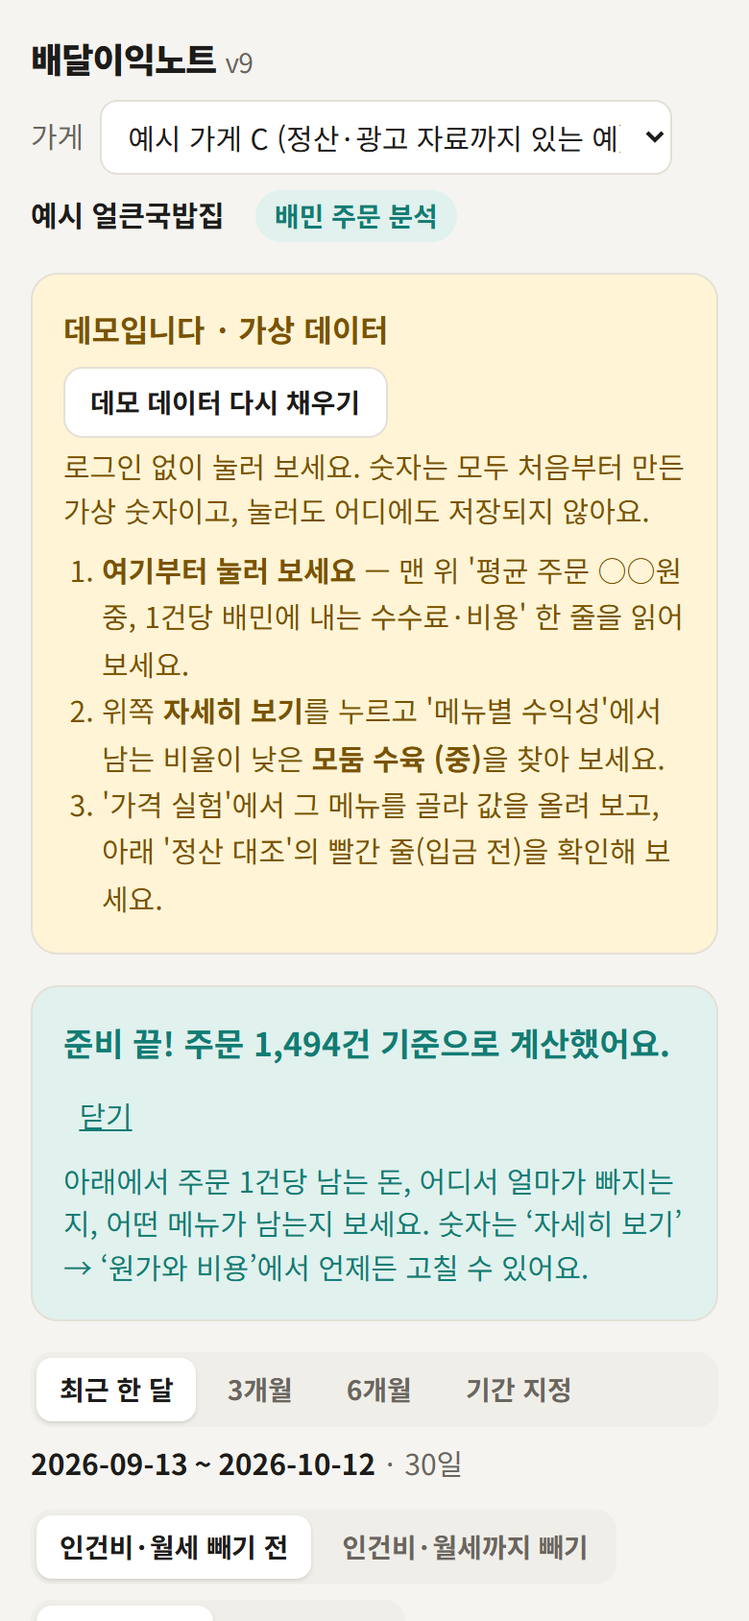
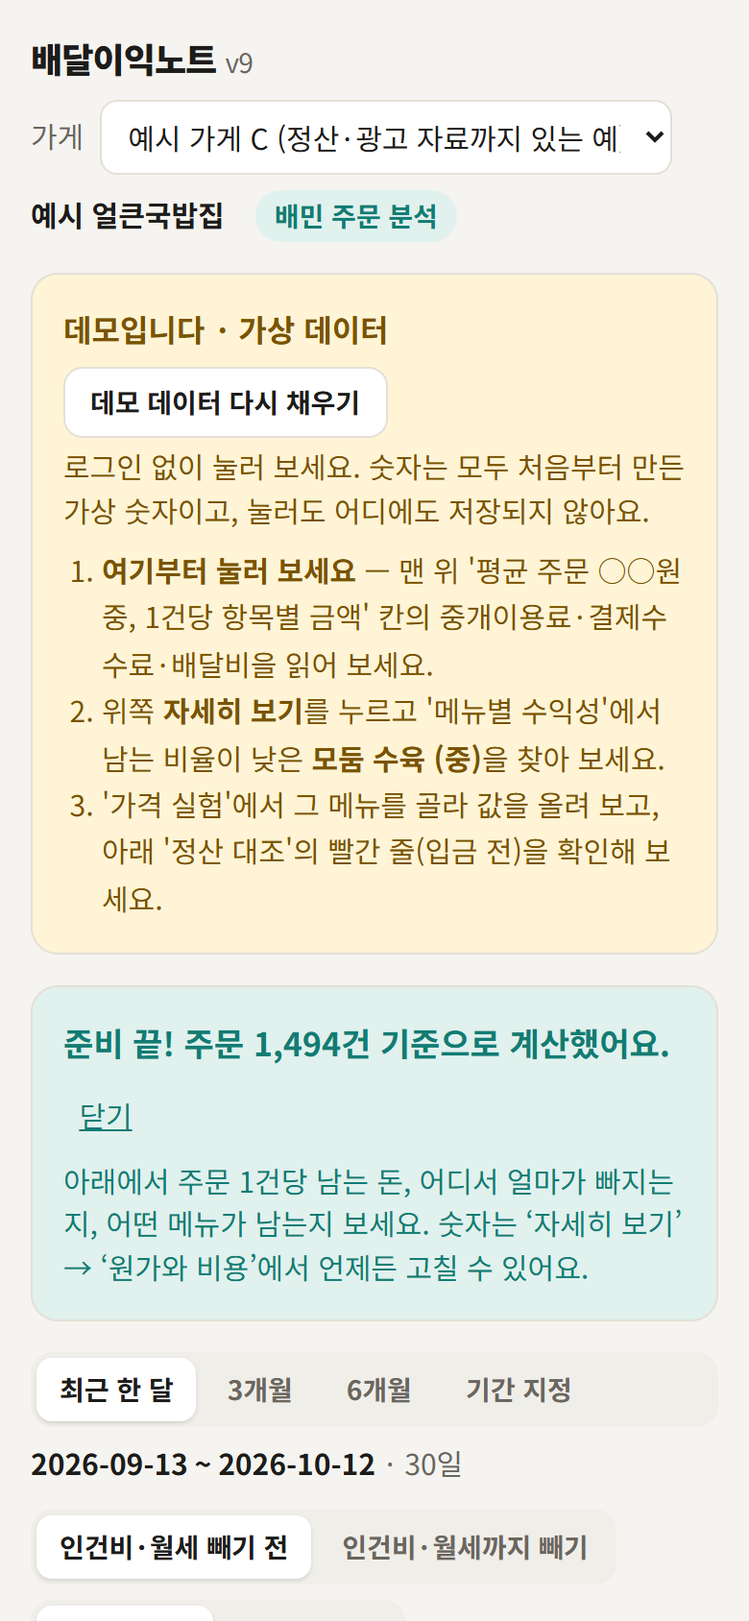
비용 이름을 중개이용료·결제수수료·배달비 등 항목별로 따로 표시

Changed region(s): [[0.1231, 0.3697, 0.9231, 0.4313]]

diff --git a/src/components/insights.tsx b/src/components/insights.tsx
@@ -10,32 +10,33 @@ import { Help } from "./Help";
 
 const md = (d: string) => `${Number(d.slice(5, 7))}/${Number(d.slice(8, 10))}`;
 
-/** v9 ②: 평균 주문(객단가) 1건당 배민에 내는 수수료·비용 — 큰 숫자 한 줄 */
+/** v9 ②: 평균 주문(객단가) 1건당 항목별 금액 — 하나로 묶지 않고 항목마다 따로 보여 준다 */
 export function TakeShareLine({ result }: { result: ChannelResult }) {
   const t = takeShare(result);
   if (!t) return null;
   const n = (q: Q) => Number(q.mul(10).round()) / 10;
+  // 광고비·구독료는 정산 항목이 아니라 따로 낸 돈이라 별도 칸으로 둔다 (입력돼 있을 때만)
+  const adPerOrder = t.perOrderWithAd && t.perOrder ? t.perOrderWithAd.add(t.perOrder.mul(-1)) : null;
+  const adPer100 = t.withAd ? t.withAd.add(t.per100.mul(-1)) : null;
+  const cells = [
+    ...t.parts.map((p) => ({ key: p.kind, label: p.label, perOrder: p.perOrder, per100: p.per100 })),
+    ...(adPerOrder && adPer100 && adPerOrder.cmp(0) > 0 ? [{ key: "ad", label: "광고비·구독료", perOrder: adPerOrder, per100: adPer100 }] : []),
+  ];
   return (
     <section className="card p-5">
       <div className="text-sm font-semibold muted">
-        {t.avgTicket ? (
-          <>
-            평균 주문 {won(t.avgTicket)} 중, 1건당 배민에 내는 수수료·비용{" "}
-          </>
-        ) : (
-          <>배민에 내는 수수료·비용 </>
-        )}
-        <Help>중개이용료·결제수수료·배달비·그 부가세 등 배민 정산에서 빠지는 비용의 합이에요. 재료비·포장비·인건비는 들어 있지 않아요. 평균 주문은 할인을 뺀 매출을 주문 수로 나눈 값이에요(위 숫자들과 같은 기준).</Help>
+        {t.avgTicket ? <>평균 주문 {won(t.avgTicket)} 중, 1건당 항목별 금액 </> : <>1건당 항목별 금액 </>}
+        <Help>정산에서 항목마다 따로 빠지는 금액을 주문 수로 나눈 값이에요. 중개이용료는 주문을 연결해 주는 이용료, 결제수수료는 카드결제 등 결제에 드는 비용, 배달비는 배달 서비스 이용 금액이에요. 재료비·포장비·인건비는 들어 있지 않아요. 평균 주문은 할인을 뺀 매출을 주문 수로 나눈 값이에요(위 숫자들과 같은 기준).</Help>
       </div>
-      <div className="mt-1 text-4xl font-extrabold tracking-tight md:text-5xl">{t.perOrder ? won(t.perOrder) : `${n(t.per100)}%`}</div>
-      <p className="mt-1 text-base">
-        평균 주문의 <strong>{n(t.per100)}%</strong>예요.{" "}
-        {t.perOrderWithAd && (
-          <span className="muted">
-            광고비·구독료까지 넣으면 1건당 <strong>{won(t.perOrderWithAd)}</strong> ({n(t.withAd ?? t.per100)}%)
-          </span>
-        )}
-      </p>
+      <dl className="mt-3 grid grid-cols-2 gap-3 md:grid-cols-3">
+        {cells.map((c) => (
+          <div key={c.key} className="rounded-lg p-3" style={{ background: "var(--soft)" }}>
+            <dt className="text-sm muted">{c.label}</dt>
+            <dd className="mt-1 text-2xl font-extrabold tracking-tight">{c.perOrder ? won(c.perOrder) : "-"}</dd>
+            <dd className="text-xs muted">평균 주문의 {n(c.per100)}%</dd>
+          </div>
+        ))}
+      </dl>
     </section>
   );
 }
@@ -74,14 +75,19 @@ export function WeekCompareLine({ store, settings, scope }: { store: Store; sett
   );
 }
 
-/** v9 ④: 숫자 3개만 넣는 빠른 계산 — 어디에도 저장·전송하지 않는다 */
+/** v9 ④: 숫자만 넣는 빠른 계산 — 어디에도 저장·전송하지 않는다. 항목은 합치지 않고 따로 넣고 따로 보여 준다 */
 export function QuickCalc() {
   const [open, setOpen] = useState(false);
-  const [v, setV] = useState({ sales: "", orders: "", taken: "" });
+  const [v, setV] = useState({ sales: "", orders: "", brokerage: "", payment: "", delivery: "" });
+  type Key = keyof typeof v;
   const num = (s: string) => Number(s.replace(/[,\s원건]/g, ""));
-  const r = v.sales && v.orders && v.taken ? quickCalc({ sales: num(v.sales), orders: num(v.orders), takenByBaemin: num(v.taken) }) : null;
-  const bad = !!(v.sales && v.orders && v.taken) && !r;
-  const field = (key: "sales" | "orders" | "taken", label: string, hint: string) => (
+  const feeKeys: Key[] = ["brokerage", "payment", "delivery"];
+  const filled = feeKeys.some((k) => v[k]);
+  const feeSum = feeKeys.reduce((a, k) => a + (v[k] ? num(v[k]) : 0), 0);
+  const r = v.sales && v.orders && filled ? quickCalc({ sales: num(v.sales), orders: num(v.orders), takenByBaemin: feeSum }) : null;
+  const bad = !!(v.sales && v.orders && filled) && !r;
+  const orders = num(v.orders);
+  const field = (key: Key, label: string, hint: string) => (
     <label className="block text-sm">
       <span className="font-semibold">{label}</span>
       <input
@@ -96,28 +102,46 @@ export function QuickCalc() {
   if (!open)
     return (
       <button className="btn tap-target mt-3" onClick={() => setOpen(true)}>
-        내 숫자 3개로 바로 보기 (가져오기 없이)
+        내 숫자로 바로 보기 (가져오기 없이)
       </button>
     );
+  const parts: { label: string; key: Key }[] = [
+    { label: "플랫폼 중개이용료", key: "brokerage" },
+    { label: "결제수수료", key: "payment" },
+    { label: "배달비", key: "delivery" },
+  ];
   return (
     <div className="mt-3 rounded-lg p-4" style={{ background: "var(--soft)" }}>
-      <p className="text-sm font-semibold">한 달 숫자 3개만 넣어 보세요</p>
-      <p className="text-xs muted">배민 셀프서비스 &lsquo;정산내역&rsquo;에서 보이는 한 달 합계면 돼요. 넣은 숫자는 이 화면 안에서만 쓰고 저장하거나 보내지 않아요.</p>
-      <div className="mt-3 grid grid-cols-1 gap-3 md:grid-cols-3">
+      <p className="text-sm font-semibold">한 달 숫자를 넣어 보세요</p>
+      <p className="text-xs muted">배민 셀프서비스 &lsquo;정산내역&rsquo;에서 보이는 한 달 합계면 돼요. 모르는 항목은 비워 두세요. 넣은 숫자는 이 화면 안에서만 쓰고 저장하거나 보내지 않아요.</p>
+      <div className="mt-3 grid grid-cols-1 gap-3 md:grid-cols-2">
         {field("sales", "한 달 매출 (원)", "예: 12,000,000")}
         {field("orders", "한 달 주문 수 (건)", "예: 600")}
-        {field("taken", "배민에 낸 금액 합계 (원)", "수수료·배달비 등 모두 더한 값")}
       </div>
-      {bad && <p className="mt-2 text-sm loss">숫자를 다시 확인해 주세요. 낸 금액이 매출의 두 배를 넘거나 0 이하 숫자가 있어요.</p>}
+      <div className="mt-3 grid grid-cols-1 gap-3 md:grid-cols-3">
+        {field("brokerage", "플랫폼 중개이용료 (원)", "예: 900,000")}
+        {field("payment", "결제수수료 (원)", "예: 300,000")}
+        {field("delivery", "배달비 (원)", "예: 1,500,000")}
+      </div>
+      {bad && <p className="mt-2 text-sm loss">숫자를 다시 확인해 주세요. 넣은 금액이 매출의 두 배를 넘거나 0 이하 숫자가 있어요.</p>}
       {r && (
-        <div className="mt-3 grid grid-cols-1 gap-2 text-base md:grid-cols-2">
-          <div className="md:col-span-2">
-            평균 주문 <strong>{won(r.avgOrder)}</strong> 중, 1건당 배민에 내는 수수료·비용은 <strong>{won(r.takenPerOrder)}</strong> (<strong>{pct(r.per100.div(100), 1)}</strong>)
+        <div className="mt-3 grid grid-cols-1 gap-2 text-base">
+          <div>
+            평균 주문 <strong>{won(r.avgOrder)}</strong> 중, 1건당
           </div>
-          <div className="md:col-span-2">
-            재료비·포장비·인건비를 빼기 전 남는 돈 <strong>{won(r.leftBeforeCosts)}</strong> ({count(Number(v.orders.replace(/\D/g, "")))} 기준)
-          </div>
-          <p className="text-xs muted md:col-span-2">재료비·인건비까지 넣은 &lsquo;진짜 남는 돈&rsquo;은 자료 가져오기 후 처음 설정에서 계산돼요.</p>
+          <ul className="grid grid-cols-1 gap-1 md:grid-cols-3">
+            {parts
+              .filter((p) => v[p.key])
+              .map((p) => (
+                <li key={p.key}>
+                  {p.label} <strong>{won(Q.of(Math.round(num(v[p.key]))).div(orders))}</strong>{" "}
+                  <span className="muted">({pct(Q.of(Math.round(num(v[p.key]))).div(Math.round(num(v.sales))), 1)})</span>
+                </li>
+              ))}
+          </ul>
+          <p className="text-xs muted">
+            재료비·포장비·인건비는 아직 안 뺐어요. 재료비·인건비까지 넣은 &lsquo;진짜 남는 돈&rsquo;은 자료 가져오기 후 처음 설정에서 계산돼요.
+          </p>
         </div>
       )}
     </div>

diff --git a/src/components/panels.tsx b/src/components/panels.tsx
@@ -28,7 +28,7 @@ const tone = (x: Q | null) => (x === null ? "" : x.cmp(0) < 0 ? "loss" : "gain")
 
 function missingReason(r: ChannelResult, scope: Scope): string | null {
   if (r.flags.cogsMissing) return "재료원가율을 넣으면 계산돼요.";
-  if (r.flags.directMissing) return "광고비 같은 배민 비용을 넣거나 '없음'을 눌러 주세요.";
+  if (r.flags.directMissing) return "광고비 같은 플랫폼 비용을 넣거나 '없음'을 눌러 주세요.";
   if (scope === "allocated" && r.flags.commonMissing) return "인건비·월세 중 배민 주문분을 넣으면 계산돼요.";
   return null;
 }
@@ -130,23 +130,13 @@ export function StatRow({ result: r, be, scope }: { result: ChannelResult; be: B
     { label: "주문 금액 합계", value: won(r.G), sub: `할인 뺀 매출 ${won(r.R)}` },
     { label: "주문 1건 평균", value: won(perOrder(r.R, r.N)), sub: `할인 전 ${won(perOrder(r.G, r.N))}` },
     {
-      label: "배민에 낸 비용",
-      value: won(r.deductionTotal),
-      // v4: '광고비는 따로'를 놓치면 이게 배민 지출 전부로 보여서, 광고비를 더한 합계를 같이 적는다
-      sub:
-        `할인 뺀 매출의 ${pct(r.R.isZero() ? null : r.deductionTotal.div(r.R))}` +
-        (r.directFixed !== null && !r.directFixed.isZero()
-          ? ` · 광고비 ${won(r.directFixed)} 더하면 ${won(r.deductionTotal.add(r.directFixed))}`
-          : " · 광고비는 따로"),
-    },
-    {
       label: scope === "direct" ? "광고비 뽑는 데 필요한 주문" : "본전이 되는 주문 수",
       value: be.status === "ok" ? count(be.orders) : be.status === "unrecoverable" ? "회수 불가" : "입력 필요",
       sub: be.status === "ok" && be.dailyOrders !== null ? `하루 ${count(be.dailyOrders)}` : undefined,
     },
   ];
   return (
-    <section className="mt-3 grid grid-cols-2 gap-3 md:grid-cols-5">
+    <section className="mt-3 grid grid-cols-2 gap-3 md:grid-cols-4">
       {items.map((it) => (
         <div key={it.label} className="card p-3">
           <div className="text-xs font-semibold muted">{it.label}</div>
@@ -177,7 +167,7 @@ export function TopChecks({ result: r, coverage, scope, commonZero = false, demo
     const amt = r.deductionsByKind[top];
     if (amt.isPositive())
       checks.push(
-        `배민에 내는 비용 중 ${DEDUCTION_LABEL[top]}가 가장 커요: 주문 1건당 ${won(perOrder(amt, r.N))}, 할인 뺀 매출의 ${pct(r.R.isZero() ? null : amt.div(r.R))}.` +
+        `정산 항목 중 ${DEDUCTION_LABEL[top]}가 가장 커요: 주문 1건당 ${won(perOrder(amt, r.N))}, 할인 뺀 매출의 ${pct(r.R.isZero() ? null : amt.div(r.R))}.` +
           (top === "delivery" ? " 배달비는 배민 배달 방식에 따라 정해져요 — 사장님이 줄일 수 있는 건 할인·포장비·재료비예요." : ""),
       );
   }
@@ -197,10 +187,10 @@ export function Waterfall({ result: r, cogsNote, commonNote }: { result: Channel
   const n = r.N;
   type Row = { label: string; value: Q | null; kind: "base" | "cost" | "sum"; note?: string; help?: string };
   const DEDUCTION_HELP: Record<DeductionKind, string> = {
-    brokerage: "주문마다 배민에 내는 수수료예요 (배민배달·가게배달·포장 요율에 따라 달라요).",
-    payment: "카드결제 등 결제·정산에 드는 수수료예요.",
+    brokerage: "주문을 연결해 주는 대가로 주문마다 내는 플랫폼 중개이용료예요 (배민배달·가게배달·포장 요율에 따라 달라요).",
+    payment: "카드결제 등 결제·정산에 드는 결제수수료예요.",
     delivery: "배민이 배달해 주고 사장님께 받는 배달비예요.",
-    other: "배민 수수료·배달비에 붙는 부가세예요. 부가세 신고 때 돌려받을 수 있어서, 이 화면은 '세금 떼기 전' 기준으로 넣었어요.",
+    other: "중개이용료·결제수수료·배달비에 붙는 부가세예요. 부가세 신고 때 돌려받을 수 있어서, 이 화면은 '세금 떼기 전' 기준으로 넣었어요.",
     unclassified: "배민 정산에는 있는데 이 프로그램이 아직 뜻을 모르는 항목이에요. 정산명세서에서 확인해 주세요.",
   };
   const rows: Row[] = [
@@ -232,7 +222,7 @@ export function Waterfall({ result: r, cogsNote, commonNote }: { result: Channel
       label: "수수료·재료비 뺀 돈",
       value: perOrder(r.cm, n),
       kind: "sum",
-      help: "주문 한 건을 팔면 들어오는 돈에서, 그 주문 때문에 나가는 돈(배민 수수료·배달비·재료·포장)을 뺀 금액이에요. 여기서 광고비와 인건비·월세를 더 빼야 진짜 남는 돈이에요.",
+      help: "주문 한 건을 팔면 들어오는 돈에서, 그 주문 때문에 나가는 돈(중개이용료·결제수수료·배달비·재료·포장)을 뺀 금액이에요. 여기서 광고비와 인건비·월세를 더 빼야 진짜 남는 돈이에요.",
     },
     {
       label: "광고비 (1건으로 나눈 값)",
@@ -808,8 +798,8 @@ export function PriceSimPanel({ result: r, fixed, scope, menus = [] }: { result:
           />
         </label>
         <div className="w-40">
-          <NumField label="올린 금액에서 배민에 내는 수수료 몫" value={fee} suffix="%" onChange={setFee} />
-          <span className="text-xs muted">중개 수수료 + 결제 수수료를 어림한 값이에요 (보통 10% 안팎)</span>
+          <NumField label="올린 금액에서 중개이용료·결제수수료로 빠지는 몫" value={fee} suffix="%" onChange={setFee} />
+          <span className="text-xs muted">플랫폼 중개이용료 + 결제수수료를 어림한 값이에요 (보통 10% 안팎)</span>
         </div>
       </div>
       {sim.status !== "ok" ? (
@@ -974,7 +964,7 @@ export function WeekdayPanel({ store, range }: { store: Store; range: DateRange 
   return (
     <section className="card p-4">
       <h2 className="section">
-        요일별 하루 평균 <Help>배민 수수료·배달비 등을 낸 뒤 금액이에요. 재료비·포장비·광고비는 아직 안 뺀 돈이라 '남는 돈'과는 달라요. 요일끼리 견주는 용도예요.</Help>
+        요일별 하루 평균 <Help>중개이용료·결제수수료·배달비 등을 낸 뒤 금액이에요. 재료비·포장비·광고비는 아직 안 뺀 돈이라 '남는 돈'과는 달라요. 요일끼리 견주는 용도예요.</Help>
       </h2>
       <div className="mt-3 flex flex-col gap-2">
         {stats.map((s) => (
@@ -1072,7 +1062,7 @@ export function RecommendationPanel({
   if (!priceLocked && topSim && topSim.status === "ok") {
     items.push({
       title: `'${top.name}'만 500원 올리면`,
-      detail: `이 기간에 ${top.qty.toLocaleString("ko-KR")}개 팔린 메뉴예요. 주문이 그대로면 ${won(topSim.scenarios[0].diff, { signed: true })} (${top.qty.toLocaleString("ko-KR")}개 × 450원). 이 메뉴 주문이 줄면 그만큼 효과가 작아져요. 올린 금액의 10%는 배민 수수료로 빠진다고 봤어요.`,
+      detail: `이 기간에 ${top.qty.toLocaleString("ko-KR")}개 팔린 메뉴예요. 주문이 그대로면 ${won(topSim.scenarios[0].diff, { signed: true })} (${top.qty.toLocaleString("ko-KR")}개 × 450원). 이 메뉴 주문이 줄면 그만큼 효과가 작아져요. 올린 금액의 10%는 중개이용료·결제수수료로 빠진다고 봤어요.`,
       impact: topSim.scenarios[0].diff,
     });
   }
@@ -1082,7 +1072,7 @@ export function RecommendationPanel({
     const risky = sim.scenarios[1].diff.cmp(0) < 0;
     items.push({
       title: risky ? "주문마다 500원씩 더 받으면 (신중)" : "주문마다 500원씩 더 받으면",
-      detail: `모든 주문의 결제 금액이 500원씩 오른다고 볼 때, 주문이 그대로면 ${won(sim.scenarios[0].diff, { signed: true })}, 주문이 5% 줄면 ${won(sim.scenarios[1].diff, { signed: true })}.${risky ? " 주문이 조금만 줄어도 손해라 신중하게 보세요." : ""} 올린 금액의 10%는 배민 수수료로 빠진다고 보고 계산했어요. 메뉴 하나만 올릴 때 효과는 이보다 작아요.`,
+      detail: `모든 주문의 결제 금액이 500원씩 오른다고 볼 때, 주문이 그대로면 ${won(sim.scenarios[0].diff, { signed: true })}, 주문이 5% 줄면 ${won(sim.scenarios[1].diff, { signed: true })}.${risky ? " 주문이 조금만 줄어도 손해라 신중하게 보세요." : ""} 올린 금액의 10%는 중개이용료·결제수수료로 빠진다고 보고 계산했어요. 메뉴 하나만 올릴 때 효과는 이보다 작아요.`,
       impact: risky ? sim.scenarios[1].diff : sim.scenarios[0].diff,
     });
   }

diff --git a/src/lib/insights.ts b/src/lib/insights.ts
@@ -1,10 +1,10 @@
 // v9: 사장님이 한눈에 읽는 한 줄짜리 숫자들. 계산은 엔진 결과를 그대로 쓰고 새 가정을 넣지 않는다.
 import { Q } from "./engine/rational";
 import { addDays } from "./engine/period";
-import { type ChannelResult, computeChannel, headline, type Scope } from "./engine/profit";
+import { type ChannelResult, computeChannel, DEDUCTION_LABEL, type DeductionKind, headline, type Scope } from "./engine/profit";
 import { aggregate, type CostSettings, type Store } from "./dataset";
 
-/** 평균 주문(객단가) 1건당 배민에 내는 수수료·비용 — 수수료·결제수수료·배달비 등 공제 합계 ÷ 주문 수 */
+/** 평균 주문(객단가) 1건당 항목별 금액(parts)과 공제 합계 ÷ 주문 수 */
 export function takeShare(r: ChannelResult): {
   per100: Q;
   perOrder: Q | null;
@@ -13,6 +13,8 @@ export function takeShare(r: ChannelResult): {
   avgTicket: Q | null;
   /** 광고비·구독료까지 넣은 주문 1건당 비용 */
   perOrderWithAd: Q | null;
+  /** 항목별(중개이용료·결제수수료·배달비 등) 1건당 금액. 0원 항목은 뺀다 */
+  parts: { kind: DeductionKind; label: string; perOrder: Q | null; per100: Q }[];
 } | null {
   if (r.R.cmp(0) <= 0) return null;
   const per100 = r.deductionTotal.mul(100).div(r.R);
@@ -21,7 +23,15 @@ export function takeShare(r: ChannelResult): {
   // 광고비·구독료 같은 배민 전용 기간 비용까지 넣은 값 (입력돼 있을 때만)
   const withAd = r.directFixed === null ? null : r.deductionTotal.add(r.directFixed).mul(100).div(r.R);
   const perOrderWithAd = r.directFixed === null || r.N <= 0 ? null : r.deductionTotal.add(r.directFixed).div(r.N);
-  return { per100, perOrder, withAd, avgTicket, perOrderWithAd };
+  const parts = (Object.keys(r.deductionsByKind) as DeductionKind[])
+    .filter((k) => !r.deductionsByKind[k].isZero())
+    .map((k) => ({
+      kind: k,
+      label: DEDUCTION_LABEL[k],
+      perOrder: r.N > 0 ? r.deductionsByKind[k].div(r.N) : null,
+      per100: r.deductionsByKind[k].mul(100).div(r.R),
+    }));
+  return { per100, perOrder, withAd, avgTicket, perOrderWithAd, parts };
 }
 
 export interface WeekWindow {

diff --git a/src/components/Dashboard.tsx b/src/components/Dashboard.tsx
@@ -231,7 +231,7 @@ export function Dashboard() {
           </div>
           <p className="mt-1">로그인 없이 눌러 보세요. 숫자는 모두 처음부터 만든 가상 숫자이고, 눌러도 어디에도 저장되지 않아요.</p>
           <ol className="mt-2 list-decimal pl-5 leading-relaxed">
-            <li><strong>여기부터 눌러 보세요</strong> — 맨 위 '평균 주문 ○○원 중, 1건당 배민에 내는 수수료·비용' 한 줄을 읽어 보세요.</li>
+            <li><strong>여기부터 눌러 보세요</strong> — 맨 위 '평균 주문 ○○원 중, 1건당 항목별 금액' 칸의 중개이용료·결제수수료·배달비을 읽어 보세요.</li>
             <li>위쪽 <strong>자세히 보기</strong>를 누르고 '메뉴별 수익성'에서 남는 비율이 낮은 <strong>모둠 수육 (중)</strong>을 찾아 보세요.</li>
             <li>'가격 실험'에서 그 메뉴를 골라 값을 올려 보고, 아래 '정산 대조'의 빨간 줄(입금 전)을 확인해 보세요.</li>
           </ol>

diff --git a/src/components/Welcome.tsx b/src/components/Welcome.tsx
@@ -11,9 +11,9 @@ export function Welcome({ onShowExample }: { onShowExample: () => void }) {
     <section className="card mb-4 p-5 md:p-6">
       <h1 className="text-xl font-extrabold leading-snug md:text-2xl">배민 주문 1건마다, 실제로 얼마가 남는지 알려 드려요</h1>
       <p className="mt-2 text-sm leading-relaxed">
-        배민에 내는 <strong>수수료·배달비·광고비</strong>를 주문 1건 기준으로 쪼개서 보여 줘요. 매출 장부로는 잘 안 보이는 부분이에요.
+        주문마다 드는 <strong>중개이용료·결제수수료·배달비·광고비</strong>를 주문 1건 기준으로 쪼개서 보여 줘요. 매출 장부로는 잘 안 보이는 부분이에요.
         <br />
-        예) &ldquo;배민에 내는 비용 중 배달비가 가장 커요: 주문 1건당 2,450원&rdquo;
+        예) &ldquo;정산 항목 중 배달비가 가장 커요: 주문 1건당 2,450원&rdquo;
       </p>
 
       <ol className="mt-4 grid gap-2 text-sm md:grid-cols-3">

diff --git a/src/lib/engine/profit.ts b/src/lib/engine/profit.ts
@@ -4,8 +4,8 @@ import { Q, safeDiv } from "./rational";
 export type DeductionKind = "brokerage" | "payment" | "delivery" | "other" | "unclassified";
 
 export const DEDUCTION_LABEL: Record<DeductionKind, string> = {
-  brokerage: "배민 중개 수수료",
-  payment: "결제 수수료",
+  brokerage: "플랫폼 중개이용료",
+  payment: "결제수수료",
   delivery: "배달비",
   other: "부가세 등 기타",
   unclassified: "확인이 필요한 정산 항목",

diff --git a/src/lib/dataset.ts b/src/lib/dataset.ts
@@ -144,7 +144,7 @@ export interface WeekdayStat {
   avgOrders: number;
   /** 하루 평균, 할인 뺀 매출 */
   avgNet: number;
-  /** 하루 평균, 배민 수수료·배달비 등을 낸 뒤 금액 (재료비·포장비·광고비 빼기 전) */
+  /** 하루 평균, 중개이용료·결제수수료·배달비 등을 낸 뒤 금액 (재료비·포장비·광고비 빼기 전) */
   avgAfterDeductions: number;
 }
 

diff --git a/docs/운영사례.md b/docs/운영사례.md
@@ -23,13 +23,13 @@
 ## 쓰는 순서 (실제로 하는 일)
 1. PC에서 프로그램을 켜고 **자료 가져오기**를 누른다. 크롬이 열리면 배민에 직접 로그인한다. (비밀번호는 저장하지 않음)
 2. 처음 한 번 재료비·포장비·인건비를 넣는다. 재료비는 대표 메뉴 한 그릇의 판매가와 재료비만 알면 된다.
-3. 첫 화면(간단히 보기)에서 "주문 1건당 남는 금액"과 "평균 주문 ○○원 중, 1건당 배민에 내는 수수료·비용"을 본다.
+3. 첫 화면(간단히 보기)에서 "주문 1건당 남는 금액"과 "평균 주문 ○○원 중, 1건당 항목별 금액"을 본다.
 4. 궁금하면 자세히 보기에서 메뉴별 남는 돈, 가격 실험, 정산 대조, 요일별 평균을 본다.
 
 ## 실제 화면에서 보인 것 (금액은 가림)
-`images/` 의 `실제화면_흐림_*.png` 3장입니다. 금액·건수·가게 이름은 가렸고, 비율만 보입니다.
+`발표자료_이미지/실제화면_흐림/` 의 `실제화면_흐림_*.png` 3장입니다. 금액·건수·가게 이름은 가렸고, 비율만 보입니다.
 - 최근 30일(9/13~10/11, 자료가 있는 29일) 기준
-- 배민 중개수수료 약 8%, 결제수수료 약 3%, 배달비 약 12%, 부가세 등 약 2% → **수수료·배달비를 합해 할인 뺀 매출의 약 25%**
+- 플랫폼 중개이용료 약 8%, 결제수수료 약 3%, 배달비 약 12%, 부가세 등 약 2% (할인 뺀 매출 기준, 항목마다 따로 봄)
 - 광고비는 약 5~6%가 더 나가 **광고비까지 뺀 돈이 할인 뺀 매출의 약 32%** (재료비는 판매가의 40%로 어림한 값, 인건비·월세는 아직 안 뺌)
 - 이 숫자는 10/13에 **정산명세서가 겹쳐 두 번 더해지던 오류를 고친 뒤** 값입니다. 고치기 전에는 광고비가 약 9%로 부풀려 보였습니다.
 - 요일별로는 일요일 주문이 가장 많고 금요일이 가장 적었음 (요일마다 4~5일치라 **참고용**)

diff --git a/README.md b/README.md
@@ -1,7 +1,7 @@
 # 배달이익노트
 
 **배민 주문 1건마다, 실제로 얼마가 남는지** 보여 주는 사장님용 도구입니다.
-배민에 내는 수수료·배달비·광고비를 주문 1건 기준으로 쪼개 보여 줘서, 매출 장부로는 잘 안 보이는 "진짜 남는 돈"을 알 수 있습니다.
+주문마다 드는 중개이용료·결제수수료·배달비·광고비를 주문 1건 기준으로 쪼개 보여 줘서, 매출 장부로는 잘 안 보이는 "진짜 남는 돈"을 알 수 있습니다.
 
 ## 1. 자료 없이 먼저 써 보기 (1분)
 
@@ -34,7 +34,7 @@
 
 | 단계 | 뜻 |
 |---|---|
-| 수수료·재료비 뺀 돈 | 주문 1건을 팔면 들어오는 돈에서 그 주문 때문에 나가는 돈(배민 수수료·배달비·재료·포장)을 뺀 것 |
+| 수수료·재료비 뺀 돈 | 주문 1건을 팔면 들어오는 돈에서 그 주문 때문에 나가는 돈(중개이용료·결제수수료·배달비·재료·포장)을 뺀 것 |
 | 광고비까지 뺀 돈 | 거기서 광고비 같은 배민 전용 비용을 뺀 것 |
 | 진짜 남는 돈 | 거기서 인건비·월세 중 배민 몫까지 뺀 것 |
 
@@ -52,12 +52,6 @@
 ## 데모 사이트 따로 만들기 (공유회·배민아카데미용)
 
 같은 저장소로 새 Vercel 프로젝트를 만들고, **Environment Variables에 `NEXT_PUBLIC_DEMO_SITE` = `1`** 을 넣어 배포하면 로그인 없이 바로 눌러 볼 수 있는 가상 데이터 데모가 됩니다. 이 변수가 없는 배포는 지금처럼 동작합니다.
-
-## 실제로 쓰는 이야기
-
-- [운영사례](docs/운영사례.md) — 전남의 한 국밥집이 어떻게 쓰고 있는지 (금액은 가리고 비율만)
-- [만든 과정](docs/만든과정.md) · [AI에게 한 말](docs/AI에게한말.md)
-- 화면 캡처: `docs/images/` (실제 화면은 금액·이름을 가렸고, `demo/`는 가상 데이터)
 
 ## 개발자용
 

diff --git a/CHANGELOG.md b/CHANGELOG.md
@@ -10,6 +10,7 @@
 - **(10/13) 입금 내역 기준 최근 30일**: 정산 대조 맨 위에 입금일이 최근 30일인 정산의 합계(입금 건수·입금액·하루 평균·광고비·아직 입금 전·입금 예정)를 보여 줌. 통장과 바로 맞춰 볼 수 있다.
 - **(10/13) 정산·광고 자료가 겹쳐 두 번 더해지던 오류 수정(중요)**: 정산명세서 파일이 기간을 겹쳐 쌓이는데 같은 정산(giveId)을 구분하지 않고 모두 더해서, 정산 대조 합계와 **일별 광고비가 겹치는 날짜만큼 부풀려졌다**(실제 가게 자료에서 최근 30일 광고비 약 37% 과다). 배민클럽 이용료도 같은 달이 중간값·최종값으로 여러 번 들어갔다. 이제 같은 정산은 가장 나중에 받은 것 하나만 쓴다. 정산 목록은 입금일이 최근인 순서로 보여 준다.
 
+- **(10/13) 비용 이름을 항목별로 따로 표시**: '배민에 내는 수수료·비용' 합계를 없애고 플랫폼 중개이용료·결제수수료·배달비·부가세 등 기타·광고비·구독료를 각각 1건당 금액과 비율로 보여 줌. '내 숫자로 바로 보기'도 항목별로 입력.
 - **(10/13) 배민 비용을 '평균 주문 1건당'으로 보여 줌**: "음식값 100원 중 N원" 대신 "평균 주문 16,127원 중, 1건당 배민에 내는 수수료·비용 4,499원 (27.9%)"처럼 사장님이 매일 보는 객단가 기준으로 바꿈. 광고비·구독료까지 넣은 1건당 값도 함께 보여 줌.
 - **(10/13) 데모 정산 '입금 전' 줄이 날짜에 따라 사라지던 것 고침**: 입금요청 표시를 최근 3일로 넓히고, 14일 연속 날짜로 테스트함.
 
